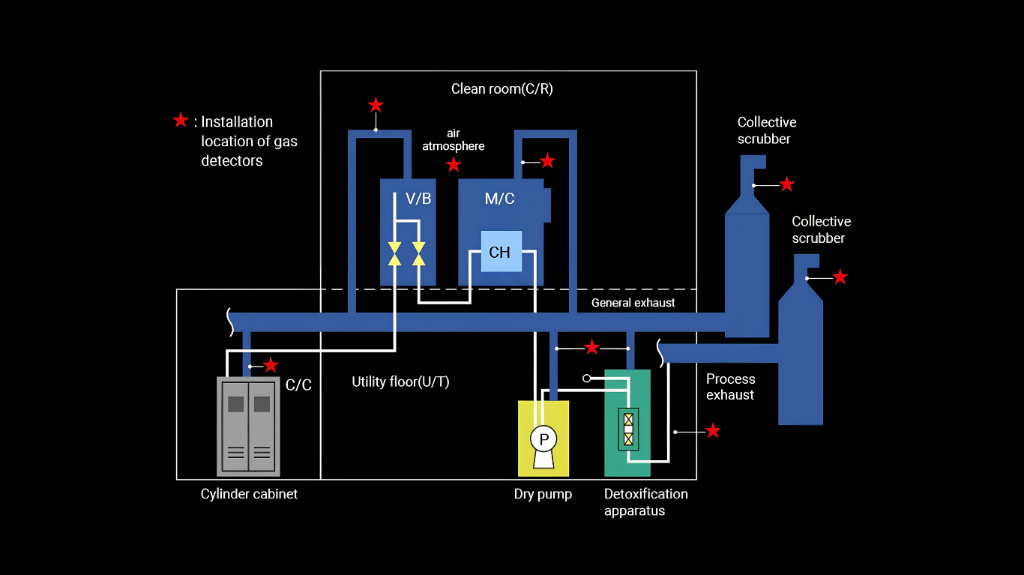
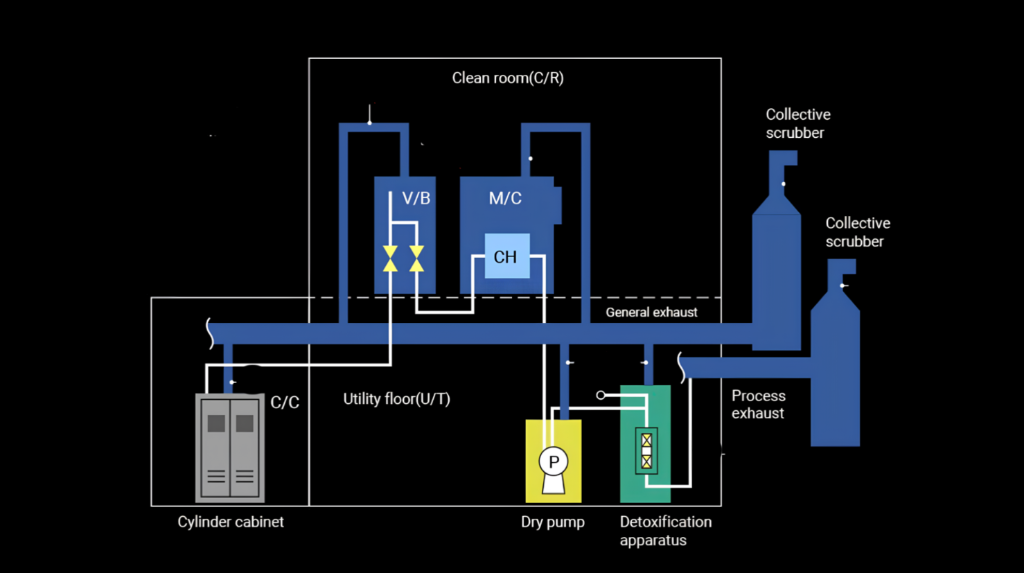
style: switch to clean layout diagram and shrink HMI overlay boxes for sleek industrial SCADA look

Changed region(s): [[0.125, 0.089, 0.875, 0.9494]]

diff --git a/index.html b/index.html
@@ -970,17 +970,17 @@
         overlay.style.top = `${sensor.top}%`;
         
         // Centering overlay box on star coordinate using transform translate
-        overlay.className = `absolute transform -translate-x-1/2 -translate-y-1/2 flex flex-col justify-between border rounded-lg px-2.5 py-1.5 cursor-pointer select-none transition-all duration-200 w-[125px] h-[55px] font-mono text-[9px] ${getOverlayStatusStyle(sensor.status)}`;
+        overlay.className = `absolute transform -translate-x-1/2 -translate-y-1/2 flex flex-col justify-between border rounded-md px-2 py-0.5 cursor-pointer select-none transition-all duration-200 w-[90px] h-[38px] font-mono text-[8px] ${getOverlayStatusStyle(sensor.status)}`;
         overlay.onclick = () => openSensorModal(sensor.id);
 
         overlay.innerHTML = `
-          <div class="flex justify-between items-center opacity-85 font-semibold text-zinc-300">
-            <span>${sensor.id}</span>
-            <span class="text-[8px] font-bold bg-zinc-800 px-1 py-0.2 rounded text-zinc-400">${sensor.formula}</span>
+          <div class="flex justify-between items-center opacity-85 text-[7px] text-zinc-300">
+            <span class="font-bold">${sensor.id.replace("GD-", "")}</span>
+            <span class="text-[6.5px] font-bold bg-zinc-800 px-0.5 rounded text-zinc-400">${sensor.formula}</span>
           </div>
-          <div class="flex items-baseline justify-between mt-0.5">
-            <span class="text-sm font-bold tracking-tight text-white value-readout">${sensor.value.toFixed(sensor.gas.includes("Arsine") ? 3 : 2)}</span>
-            <span class="text-[8px] opacity-75 font-semibold text-zinc-400">${sensor.unit}</span>
+          <div class="flex items-baseline justify-between">
+            <span class="text-[11px] font-bold tracking-tight text-white value-readout">${sensor.value.toFixed(sensor.gas.includes("Arsine") ? 3 : 2)}</span>
+            <span class="text-[7px] opacity-75 font-semibold text-zinc-400">${sensor.unit}</span>
           </div>
         `;
 
@@ -993,7 +993,7 @@
       sensors.forEach(sensor => {
         const overlay = document.getElementById(`overlay-${sensor.id}`);
         if (overlay) {
-          overlay.className = `absolute transform -translate-x-1/2 -translate-y-1/2 flex flex-col justify-between border rounded-lg px-2.5 py-1.5 cursor-pointer select-none transition-all duration-200 w-[125px] h-[55px] font-mono text-[9px] ${getOverlayStatusStyle(sensor.status)}`;
+          overlay.className = `absolute transform -translate-x-1/2 -translate-y-1/2 flex flex-col justify-between border rounded-md px-2 py-0.5 cursor-pointer select-none transition-all duration-200 w-[90px] h-[38px] font-mono text-[8px] ${getOverlayStatusStyle(sensor.status)}`;
           
           const valReadout = overlay.querySelector(".value-readout");
           if (valReadout) {